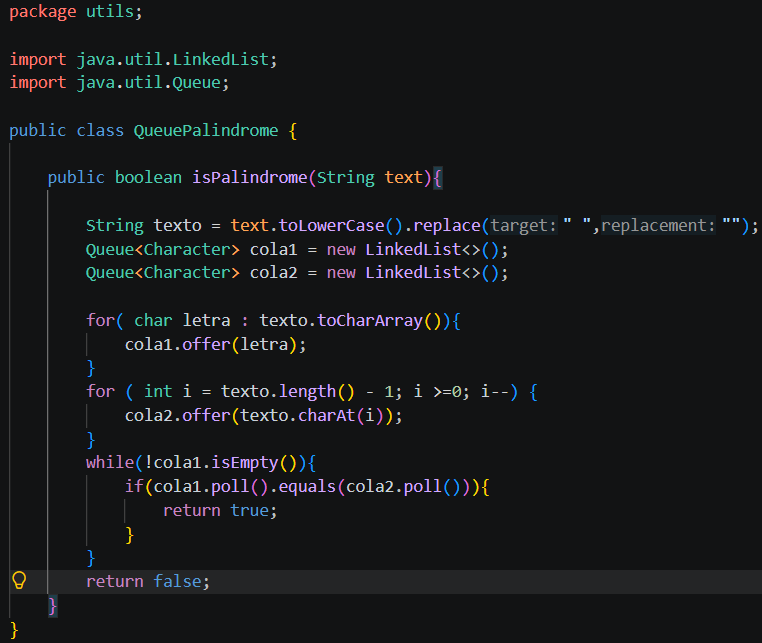
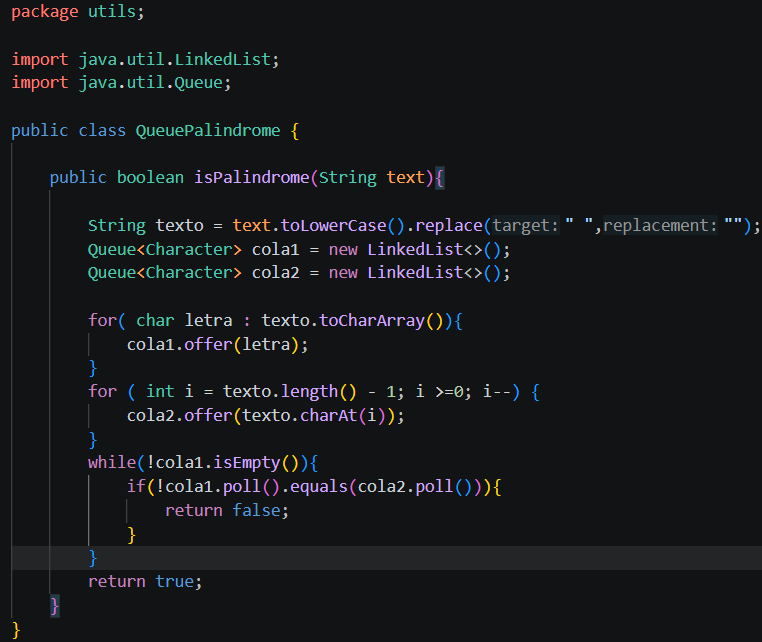
ADD: Ejercicios de Estructuras Lineales

diff --git a/src/utils/QueuePalindrome.java b/src/utils/QueuePalindrome.java
@@ -18,10 +18,10 @@ public class QueuePalindrome {
             cola2.offer(texto.charAt(i));
         }
         while(!cola1.isEmpty()){
-            if(cola1.poll().equals(cola2.poll())){
-                return true;
+            if(!cola1.poll().equals(cola2.poll())){
+                return false;
             }  
         }  
-        return false;
+        return true;
     }
 }